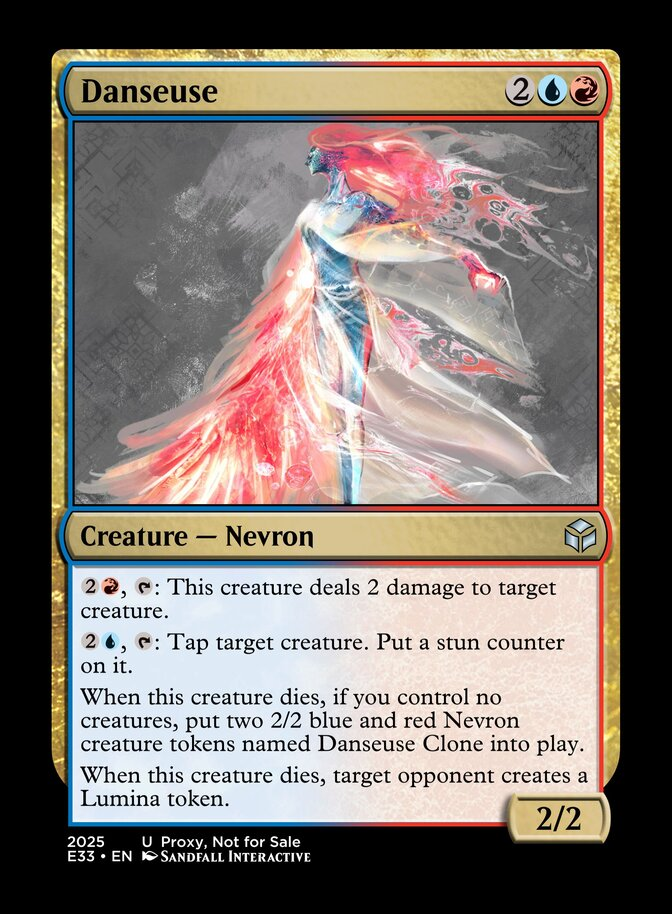
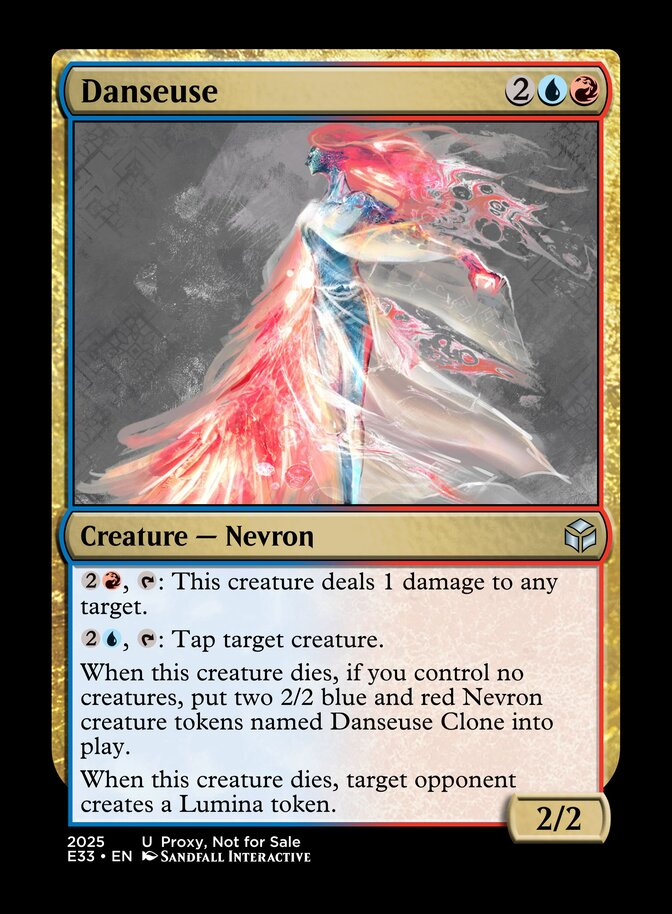
Danseuse: Rework abilities for power level.
Fixes #147

Changed region(s): [[0.125, 0.6127, 0.875, 0.8884]]

diff --git a/design/MULTICOLOR.md b/design/MULTICOLOR.md
@@ -1,6 +1,6 @@
 # Cards
 
-> Last generated: 6/7/2026 12:26:17 pm
+> Last generated: 6/7/2026 12:48:33 pm
 
 ## Aberration
 
@@ -405,8 +405,8 @@ When this creature dies, target opponent creates a Lumina token. (It's an artifa
 ```
 2UR
 Creature - Nevron
-{2}{R}, {T}: This creature deals 2 damage to target creature.
-{2}{U}, {T}: Tap target creature. Put a stun counter on it.
+{2}{R}, {T}: This creature deals 1 damage to any target.
+{2}{U}, {T}: Tap target creature.
 When this creature dies, if you control no creatures, put two 2/2 blue and red Nevron creature tokens named Danseuse Clone into play.
 When this creature dies, target opponent creates a Lumina token.
 
@@ -424,6 +424,9 @@ When this creature dies, target opponent creates a Lumina token.
     - For the clone ability, I preserved the original triggering condition but went against making token copies as that seemed really degenerate as the cloning trigger would also pass on to the tokens.
  - 13/10/2025: Removed Devoid.
  - 13/12/2025: Increased activated ability costs by {2}
+ - 6/7/2026: Rework abilities for power level
+   - Repeatable creature shock changed to any target ping
+   - Tap and stun changed to just creature tapping
 
 ## Death Stare (Gaze of Granite)
 
